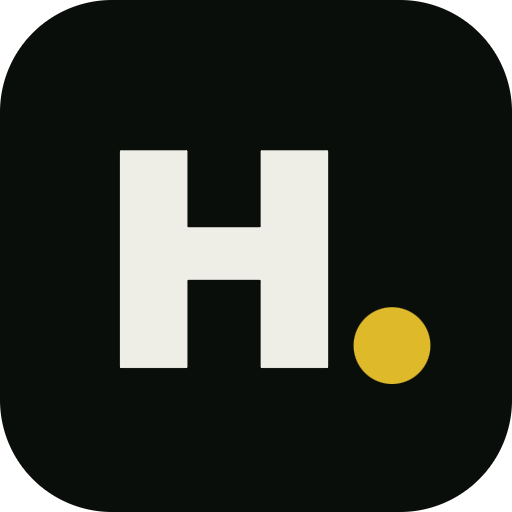
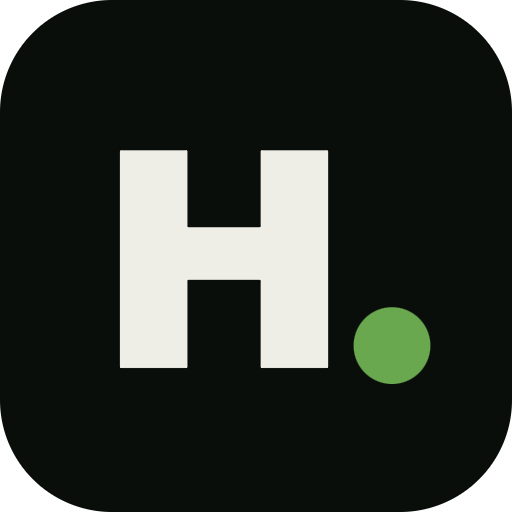
Two-tone palette: the yellow accent becomes the green accent
The --yellow token now maps to --green in both themes, so heading dots,
the progress bar, nav underlines, outcome figures, impact plus signs and
the contact step numbers all use the single green accent. Spots where
green-on-green would blur (chart line, star schema, code tokens, active
project) switch to ink instead, the intro role line is cream on the
curtain, and the favicon dot and PNG icons are green.

Changed region(s): [[0.6875, 0.5938, 0.8438, 0.75]]

diff --git a/index.html b/index.html
@@ -51,7 +51,7 @@
   --ink:#eeede6; --ink-2:#b7bbb1; --mute:#858c82;
   --line:rgba(238,237,230,.10); --line-2:rgba(238,237,230,.22);
   --green:#6aa84f; --green-2:#7dbd60; --green-deep:#2f5423; --on-green:#06210f;
-  --yellow:#deb92a;
+  --yellow:var(--green);   /* two-tone site: the old third colour maps to the accent */
   --green-rgb:106,168,79;
   --shadow:0 40px 90px -30px rgba(0,0,0,.75);
   --nav-h:68px;
@@ -70,7 +70,7 @@
   --ink:#141a16; --ink-2:#3a423d; --mute:#5e6761;
   --line:rgba(20,34,26,0.1); --line-2:rgba(20,34,26,0.2);
   --green:#247a3c; --green-2:#1b6530; --green-deep:#1c4228; --on-green:#ffffff;
-  --yellow:#b97d00;
+  --yellow:var(--green);
   --green-rgb:36,122,60;
   --shadow:0 40px 90px -30px rgba(20,40,28,0.12);
   color-scheme:light;
@@ -102,7 +102,7 @@ button{font:inherit;color:inherit;background:none;border:0;cursor:pointer}
 .container{width:min(100% - 2*var(--gutter),1440px);margin-inline:auto}
 .icon{width:1em;height:1em;flex:none}
 
-.skip{position:fixed;top:-100px;left:1rem;z-index:100;background:var(--yellow);color:#111;padding:.6rem 1rem;border-radius:4px;font-weight:700}
+.skip{position:fixed;top:-100px;left:1rem;z-index:100;background:var(--green);color:var(--on-green);padding:.6rem 1rem;border-radius:4px;font-weight:700}
 .skip:focus{top:1rem}
 
 .grain{position:fixed;inset:0;z-index:90;pointer-events:none;opacity:.055;
@@ -124,7 +124,7 @@ html:not(.js-anim) .intro{display:none}
 .intro-r .seam{left:0}
 .intro-text{position:relative;z-index:2;text-align:center;padding:0 var(--gutter);color:#eeede6}
 html.js-anim .intro-text{visibility:hidden}
-.intro-avatar{display:block;width:clamp(96px,12vw,150px);aspect-ratio:1;border-radius:50%;overflow:hidden;margin:0 auto 1.4rem;box-shadow:0 0 0 3px var(--yellow),0 0 0 9px rgba(222,185,42,.18),0 24px 50px -20px rgba(0,0,0,.7);will-change:transform}
+.intro-avatar{display:block;width:clamp(96px,12vw,150px);aspect-ratio:1;border-radius:50%;overflow:hidden;margin:0 auto 1.4rem;box-shadow:0 0 0 3px var(--green),0 0 0 9px rgba(var(--green-rgb),.22),0 24px 50px -20px rgba(0,0,0,.7);will-change:transform}
 .intro-avatar img{width:100%;height:100%;object-fit:cover;display:block}
 .intro-hi{display:block;font-family:var(--font-display);font-size:clamp(1.1rem,2vw,1.6rem);font-weight:500;letter-spacing:-.01em;opacity:.8;margin-bottom:.5rem}
 .intro-name{display:block;font-family:var(--font-display);font-size:clamp(2.6rem,7vw,6.5rem);font-weight:700;font-variation-settings:"opsz" 96,"wdth" 100;letter-spacing:-.03em;line-height:1.04}
@@ -287,17 +287,17 @@ html.js-anim [data-rv]{opacity:0}
 .about-orbit .ring{fill:none;stroke:var(--line-2);stroke-width:1;stroke-dasharray:3 9}
 .about-orbit .arc{fill:none;stroke:var(--yellow);stroke-width:2.5;stroke-linecap:round;transform-box:view-box;transform-origin:320px 320px;animation:orbit-spin 30s linear infinite reverse}
 @keyframes orbit-spin{to{transform:rotate(360deg)}}
-.about-orbit .disc{position:absolute;left:32.5%;top:32.5%;width:35%;aspect-ratio:1;border-radius:50%;background:rgba(222,185,42,.34);box-shadow:inset 0 0 0 2px rgba(222,185,42,.7);z-index:2;display:grid;place-items:center}
+.about-orbit .disc{position:absolute;left:32.5%;top:32.5%;width:35%;aspect-ratio:1;border-radius:50%;background:rgba(var(--green-rgb),.34);box-shadow:inset 0 0 0 2px rgba(var(--green-rgb),.7);z-index:2;display:grid;place-items:center}
 .about-orbit .box{position:relative;width:56%;aspect-ratio:1;perspective:900px;transform-style:preserve-3d}
 .about-orbit .box-well{position:absolute;inset:0;border-radius:18%;background:#0a0e0b;display:grid;place-items:center;overflow:hidden;box-shadow:inset 0 0 0 1px rgba(238,237,230,.1),inset 0 -1.4cqw 2.6cqw rgba(0,0,0,.65)}
-.about-orbit .box-glow{position:absolute;inset:12%;border-radius:50%;background:radial-gradient(closest-side,rgba(222,185,42,.55),rgba(222,185,42,0))}
+.about-orbit .box-glow{position:absolute;inset:12%;border-radius:50%;background:radial-gradient(closest-side,rgba(var(--green-rgb),.55),rgba(var(--green-rgb),0))}
 .about-orbit .core-mark{position:relative;width:54%;height:54%;overflow:visible}
 .about-orbit .core-mark rect{fill:#eeede6}
-.about-orbit .core-mark circle{fill:#deb92a}
+.about-orbit .core-mark circle{fill:var(--green)}
 .about-orbit .box-lid{position:absolute;inset:0;border-radius:18%;background:linear-gradient(180deg,#2c3b31,#141b17);box-shadow:inset 0 0 0 1px rgba(238,237,230,.16);transform-origin:50% 0%;transform:rotateX(-112deg);display:grid;place-items:center}
 .about-orbit .box-lid-line{width:34%;height:max(.5cqw,3px);border-radius:999px;background:rgba(238,237,230,.22)}
 .about-orbit .spoke{position:absolute;left:0;top:0;width:max(0px,calc(var(--r) - 17.5cqw));height:1px;transform-origin:0 50%;transform:rotate(var(--a)) translateX(17.5cqw);background:linear-gradient(90deg,rgba(var(--green-rgb),.06),rgba(var(--green-rgb),.42))}
-.about-orbit .pulse{position:absolute;left:0;top:0;width:max(1.7cqw,7px);height:max(1.7cqw,7px);border-radius:50%;background:#deb92a;box-shadow:0 0 12px rgba(222,185,42,.75);transform:translate(-50%,-50%) rotate(var(--a)) translateX(var(--d)) rotate(calc(-1 * var(--a)))}
+.about-orbit .pulse{position:absolute;left:0;top:0;width:max(1.7cqw,7px);height:max(1.7cqw,7px);border-radius:50%;background:var(--green);box-shadow:0 0 12px rgba(var(--green-rgb),.75);transform:translate(-50%,-50%) rotate(var(--a)) translateX(var(--d)) rotate(calc(-1 * var(--a)))}
 .about-orbit .orbit-wrap{position:absolute;inset:0;z-index:5}
 .about-orbit .orbit{position:absolute;left:50%;top:50%;width:0;height:0;animation:orbit-spin var(--t) linear infinite var(--dir,normal)}
 .about-orbit .orbit-a{--r:40cqw;--t:80s}
@@ -364,8 +364,8 @@ html.js-anim [data-rv]{opacity:0}
 .sk-a,.sk-d{--art:min(28%,180px)}
 .sk-art{position:absolute;right:1.3rem;bottom:1.2rem;width:var(--art);height:auto;aspect-ratio:2/1;opacity:.32;pointer-events:none;z-index:-1;overflow:visible}
 .sk-art .b{fill:var(--green)}
-.sk-art .l{fill:none;stroke:var(--yellow);stroke-width:2.5;stroke-linecap:round;stroke-linejoin:round}
-.sk-art .vdot{fill:var(--yellow);opacity:0}
+.sk-art .l{fill:none;stroke:var(--ink);stroke-width:2.5;stroke-linecap:round;stroke-linejoin:round}
+.sk-art .vdot{fill:var(--ink);opacity:0}
 .sk-art{transition:opacity .4s}
 .sk-a:hover .sk-art{opacity:.55}
 .sk-flow{position:absolute;right:1.3rem;bottom:1.2rem;width:var(--art);height:auto;aspect-ratio:2/1;pointer-events:none;z-index:-1;opacity:.75;overflow:visible}
@@ -383,15 +383,15 @@ html.js-anim [data-rv]{opacity:0}
 .sk-code{width:var(--art)}
 .sk-code .tok{fill:var(--ink-2);opacity:.28}
 .sk-code .tok.g{fill:var(--green);opacity:.7}
-.sk-code .tok.y{fill:var(--yellow);opacity:.7}
+.sk-code .tok.y{fill:var(--ink);opacity:.55}
 .sk-code .caret{fill:var(--yellow);opacity:0}
 .sk-b:hover .sk-code .caret{animation:sk-blink 1s step-end infinite}
 @keyframes sk-blink{0%,49%{opacity:1}50%,100%{opacity:0}}
 .sk-star{width:var(--art)}
 .sk-star .jn{stroke:var(--line-2);stroke-width:1.5;stroke-dasharray:4 5}
 .sk-star .dim{fill:var(--bg);stroke:var(--green);stroke-width:1.5;opacity:.8;transform-box:fill-box;transform-origin:center}
-.sk-star .fact{fill:var(--bg);stroke:var(--yellow);stroke-width:1.5;transform-box:fill-box;transform-origin:center}
-.sk-star .fk{fill:var(--yellow);opacity:.55}
+.sk-star .fact{fill:var(--bg);stroke:var(--ink);stroke-width:1.5;transform-box:fill-box;transform-origin:center}
+.sk-star .fk{fill:var(--ink);opacity:.5}
 .sk-e:hover .sk-star .jn{stroke:var(--green);animation:sk-march .9s linear infinite}
 @keyframes sk-march{to{stroke-dashoffset:-18}}
 .sk-f{--art:min(20%,124px)}
@@ -407,7 +407,7 @@ html.js-anim [data-rv]{opacity:0}
 @keyframes sk-spin{to{transform:rotate(360deg)}}
 @keyframes sk-blip{0%{opacity:1}70%{opacity:.25}100%{opacity:1}}
 .sk-wave .wb{fill:var(--green);transform-box:fill-box;transform-origin:center}
-.sk-wave .wb:nth-child(2n){fill:var(--yellow)}
+.sk-wave .wb:nth-child(2n){opacity:.45}
 .sk-f:hover .sk-wave .wb{animation:sk-wave .9s ease-in-out infinite alternate}
 .sk-f:hover .sk-wave .wb:nth-child(2){animation-delay:-.15s}.sk-f:hover .sk-wave .wb:nth-child(3){animation-delay:-.3s}.sk-f:hover .sk-wave .wb:nth-child(4){animation-delay:-.45s}.sk-f:hover .sk-wave .wb:nth-child(5){animation-delay:-.6s}.sk-f:hover .sk-wave .wb:nth-child(6){animation-delay:-.75s}.sk-f:hover .sk-wave .wb:nth-child(7){animation-delay:-.9s}.sk-f:hover .sk-wave .wb:nth-child(8){animation-delay:-1.05s}.sk-f:hover .sk-wave .wb:nth-child(9){animation-delay:-1.2s}
 @keyframes sk-wave{from{transform:scaleY(.35)}to{transform:scaleY(1)}}
@@ -469,7 +469,7 @@ html.js-anim [data-rv]{opacity:0}
 .pj .n{font-family:var(--font-mono);font-size:.7rem;letter-spacing:.06em;color:var(--mute);transition:color var(--d-fast)}
 .pj .ar{width:14px;height:14px;color:var(--green);opacity:0;transform:translateX(-6px);transition:opacity .3s var(--ease),transform .3s var(--ease)}
 .pj:hover{color:var(--ink);background:rgba(var(--green-rgb),.06)}
-.pj.is-active{color:var(--yellow);border-left-color:var(--green);background:rgba(var(--green-rgb),.1)}
+.pj.is-active{color:var(--ink);border-left-color:var(--green);background:rgba(var(--green-rgb),.1)}
 .pj.is-active .n{color:var(--green)}
 .pj.is-active .ar{opacity:1;transform:none}
 /* The panel is only as wide as a 16:9 screenshot that fits the viewport height, so it never letterboxes. */
@@ -685,7 +685,7 @@ html.intro-lock{overflow:hidden}
 [data-theme=light] .about-orbit .core-mark rect{fill:var(--ink)}
 [data-theme=light] .about-orbit .box-lid{background:linear-gradient(180deg,#dfe7e1,#c7d3ca);box-shadow:inset 0 0 0 1px var(--line-2)}
 [data-theme=light] .terrain{background:radial-gradient(90% 75% at 28% 92%,color-mix(in srgb,var(--green) 9%,var(--bg-3)),var(--bg-3) 72%)}
-.intro-role{color:#deb92a}
+.intro-role{color:rgba(238,237,230,.82)}   /* cream on the deep-green curtain, both themes */
 </style>
 </head>
 <body>
